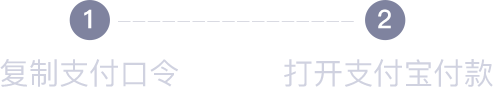
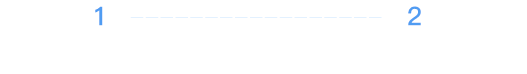
update purchase

Changed region(s): [[0.5781, 0.6757, 1.0, 1.0], [0.1217, 0.0, 0.8215, 0.4595], [0.0, 0.6757, 0.3651, 1.0]]

diff --git a/public/client/css/purchase_bk.css b/public/client/css/purchase_bk.css
@@ -19,17 +19,13 @@ html, body {
 }
 
 .full-height {
-    background-color: #639aeb;
+    background-color: #f3f3f3;
     margin-top: 18px;
 }
 
 .card {
 	font-size: 16px;
 	color: white;
-}
-
-.cardBody {
-	background-color: #639aeb;
 }
 
 .img_flow {
@@ -43,8 +39,7 @@ html, body {
 
 .information-table {
 	margin-top:20px;
-	margin-bottom:30px;
-	padding-top:10px;
+	padding-top:20px;
 	background: white;
 	border-radius: 10px;
 	display: block;
@@ -76,17 +71,15 @@ html, body {
 }
 
 .label-title {
-	color: #333;
-	font-size: 17px;
+	color: #323232;
+	font-size: 16px;
 	padding-left: 0;
-	padding-bottom: 15px;
-	font-weight: 600;
+	padding-bottom: 10px;
 }
 
 .point {
-	color: #f45f22;
-	font-size: 17px;
-	padding-left: 10px;
+	color: #ff3944;
+	font-size: 16px;
 }
 
 .text-right {
@@ -94,16 +87,15 @@ html, body {
 }
 
 .button-copy {
-	display: inline-block;
-	width:70px;
-    height: 20px;
-    border-radius: 20px;
-    border: 1px solid #639aeb;
-    cursor:pointer;
-    margin: 0 0 10px 0; 
-    color: #639aeb;
-    text-align: center;
-    font-size: 11px;
+	color: white;
+	font-size: 18px;
+	padding: 7px 5px 10px 5px;
+	border-radius: 20px;
+	background-image: linear-gradient(to right, #ecc993, #dca464);
+	margin: 0 auto 0 auto;
+	font-weight: 700;
+	cursor: pointer;
+	text-align: center;
 }
 
 .button-status {
@@ -206,12 +198,12 @@ html, body {
 }
 
 .button-submit {
-	color: #fff;
+	color: white;
 	font-size: 18px;
 	padding: 7px 5px 10px 5px;
-	border-radius: 20px;
-	/*margin: 20px 10px;*/
-	background: #f8a647;
+	border-radius: 6px;
+	margin: 20px 10px;
+	background: #639aeb;
 	text-align: center;
 	cursor: pointer;
 }
@@ -325,44 +317,42 @@ html, body {
     position: relative;
     padding-right: 15px;
 	padding-left: 15px;
-	height: 210px;
-	margin-left: 5px;
+	height: 100px;
 }
 
 .radio{
     display:inline-block;
     width:100%;
-    height: 70px;
+    height: 0.7rem;
     border-radius: 6px;
-    border: 1px solid #d5d5d5;
+    border: 1px solid #d6d6d6;
     cursor:pointer;
     margin: 0 0 10px 0; 
-    color: #b8b8b8;
+    color: #d6d6d6;
     text-align: center;
-    font-size: 13px;
-    padding-top:8px;
+    font-size: 12px;
+    padding:5px;
 }
 
 .radio-title {
 	color: #7b7b7b;
 	font-size: 16px;
-	padding-top:5px;
 }
 
 .radio.selected{
-    border-color: #f8a647;
+    border-color: #fb8900;
     color: #fb8900;
 }
 
 .radio.selected .radio-title{
-    color: #f8a647;
+    color: #fb8900;
 }
 
-/*@media only screen and (max-width: 500px) {
+@media only screen and (max-width: 500px) {
 	.radio{
 		height: 55px;
 	}
-}*/
+}
 
 @media only screen and (max-width: 360px) {
 	.radio{
@@ -372,43 +362,8 @@ html, body {
 
 .copy-success {
 	background: #3dcc32;
-	color: #fff;
 }
 
 .copy-fail {
 	background: #999999;
-	color: #fff;
-}
-
-.how-to-pay {
-	font-size: 13px;
-	color: #999;
-	width: 355px;
-}
-
-.qq-info {
-	padding:5px;
-	display: inline-block;
-	text-align: center;
-	padding-top: 20px;
-	padding-bottom: 10px;
-	font-size: 17px;
-	color: #333;
-	font-weight: 500;
-}
-
-.qq-icon {
-
-	display: inline-block;
-	height: 20px;
-}
-
-.qq {
-	text-align: center;
-	margin: auto;
-  /*width: 50%;*/
-  /*border: 3px solid green;*/
-  padding: 10px;
-    overflow: auto;
-
 }

diff --git a/public/client/js/purchase.js b/public/client/js/purchase.js
@@ -5,14 +5,7 @@ $(document).ready(function () {
     getToken();
 
     $('.button-submit').click(function(){
-
-        var txt_name = $('#txt_name').val();
-        if(txt_name == ''){
-            $('.error').html('未输入姓名无法提交，请填写真实姓名');
-            $('.error').show();
-        } else {
-            purchase();
-        }
+        purchase();
     });
 
     var clipboard = new ClipboardJS('.cutBtn', {
@@ -22,11 +15,11 @@ $(document).ready(function () {
     });
 
     clipboard.on('success', function (e) {
-        $('.cutBtn').addClass('copy-success').html('复制成功 打开支付宝');
+        $('.cutBtn').addClass('copy-success').html('复制成功');
     });
 
     clipboard.on('error', function (e) {
-        $('.cutBtn').addClass('copy-success').html('复制成功 打开支付宝');
+        $('.cutBtn').addClass('copy-success').html('复制成功');
     });
 
 }); 
@@ -69,13 +62,13 @@ function getPackage() {
 
                     if(purchase_data.length == 0 && item.package_discount_price > 0){
                         html += '<div class="promotion"><img src="/client/images/membership/promotion.png" /></div>';
-                        price = item.package_discount_price;
+                        price = Math.trunc(item.package_discount_price);
                     } else {
-                        price = item.package_price;
+                        price = Math.trunc(item.package_price);
                     }
 
                         html += '<div class="radio" data-value="'+ item.id +'" data-price="'+price +'">' +
-                                    '<div class="radio-title">'+ item.package_name +'</div><div>售价'+ price +'元</div>' +
+                                    '<div class="radio-title">'+ item.package_name +'</div><div>'+ price +' Q币 兑换</div>' +
                                 '</div>' +
                             '</div>';
                     
@@ -87,10 +80,10 @@ function getPackage() {
                     $(this).parent().parent().find('.radio').removeClass('selected');
                     $(this).addClass('selected');
                     var val = $(this).attr('data-value');
-                    var price = $(this).attr('data-price');
+                    var price = Math.trunc($(this).attr('data-price'));
                     //alert(val);
                     $('#radio-value').val(val);
-                    $('.point').html('¥'+ price +'元');
+                    $('.point').html(price +' Q币');
                 });
             }
         }
@@ -99,7 +92,7 @@ function getPackage() {
 
 function purchase(){
     var id = $('#hidUserId').val();
-    var txt_name = $('#txt_name').val();
+    var txt_name = null; //$('#txt_name').val();
     var packageid = $('#radio-value').val();
 
     if(packageid <= 0){

diff --git a/public/client/js/round.js b/public/client/js/round.js
@@ -111,10 +111,12 @@ function populateData(records, token) {
                     var str_status = "开通失败";
                     var str_class = "fail";
                 }
+
+                var bprice = Math.trunc((item.buy_price != null) ? item.buy_price : 0);
                 
                 html += '<div class="row">' +
                             '<div class="col-xs-8 column-1">' +
-                                '<div class="item">购买' + item.package_name + '幸运转盘</div>' +
+                                '<div class="item">Q币购买' + item.package_name + '幸运转盘</div>' +
                                 '<div class="date">购买时间：' + str_date + '</div>';
                                 if(str_class == 'fail' && item.reject_notes != ''){
                                     html += '<div class="reason">原因：' + item.reject_notes + '</div>';
@@ -125,7 +127,7 @@ function populateData(records, token) {
                                     '<div class="status">' +
                                         '<span class="' + str_class + '">'+ str_status +'</span>' +
                                     '</div>' +
-                                    '<div class="additional">'+ item.buy_price +'元</div>';
+                                    '<div class="additional">'+ bprice +' Q币</div>';
                                     if(str_class == 'fail'){
                                         html += '<a href="/purchase"><div class="btn-purchase">再次购买</div></a>';
                                     }

diff --git a/resources/views/staradmin/client/purchase_bk.blade.php b/resources/views/staradmin/client/purchase_bk.blade.php
@@ -1,6 +1,6 @@
 @extends('layouts.default')
 
-@section('title', 'Q币购买')
+@section('title', '付款页面')
 
 @section('left-menu')
     <a href="/profile" class="back">
@@ -30,6 +30,7 @@
 				<div class="row">
 					<div class="col-xs-12">
 					  	<div class="label-title">选择场次</div>
+					  	<h4 style="font-size: 0;">优惠券代码 <span id="cut" class="copyvoucher">i8I2yX408f</span></h4>
 					</div>
 
 					<form method="post" action="">
@@ -38,41 +39,46 @@
 					  
 					</form>
 
-					<div class="col-xs-12">
-						<div class="label-title">需支付<span class="point">0 Q币</span>
-						</div>
+					<div class="col-xs-6">
+						<div class="label-title">支付金额</div>
+					</div>
+					<div class="col-xs-6 text-right">
+						<div class="point">¥0.00元</div>
 					</div>
 
 					<div class="col-xs-12">
-						<div class="how-to-pay">
-							支付方式：<br>
-							到淘宝搜索“1个Q币”给下方Q号充值26个Q币。<br>
-							充值完成后点击“充值完成”。<br>
-						</div>
+					  	<div class="button-copy cutBtn">复制支付口令</div>
 					</div>
-
-					<div class="col-xs-12 qq">
-						<img class="qq-icon" src="{{ asset('/client/images/membership/qq.png') }}"  />
-						<div class="qq-info">
-							QQ号码: <span id="cut">{{env('qqnumber', '235883623')}}</span>
-						</div>
-						<div class="button-copy cutBtn">复制号码</div>
-					</div>
-
-					<div class="col-xs-12">				
-						<div class="button-submit">充值完成</div>
-						<div class="error"></div>
-					</div>
-
 				</div>
-
 			</div>
 			<!-- end member details -->
 
 
-		  	
+		  	<div class="listing-table">
+				<div class="col-xs-4">
+					重要提示：
+				</div>
+				<div class="col-xs-8">
+					付款成功后，请提交付款信息，填写姓名，否则后台无法确认。
+				</div>
+				<div style="clear: both;"></div>
+				<div class="input-wrapper">
+					<input type="text" value="" id="txt_name" name="txt_name" placeholder="输入姓名" />
+				</div>
+				<div class="button-submit">确认提交</div>
+				<div class="error">未输入姓名无法提交，请填写真实姓名</div>
+
+			</div>
 		</div>
 		
+		<div class="top-background">
+			<img src="{{ asset('/client/images/membership/bg-purchase.png') }}" />
+		</div>
+		<div class="bottom-background"></div>
+
+		<!-- member listing -->
+		
+		<!-- end member listing -->
 	</div>
 </div>
 

diff --git a/resources/views/staradmin/client/game.blade.php b/resources/views/staradmin/client/game.blade.php
@@ -692,7 +692,7 @@
 								<div class="modal-invite-content">
 									<h1 class="modal-invite-title">您有以下选择</h1>
 									<ol class="vegan-list">
-										<li>购买次数，首次购买仅需<span class="_1st_basic_topup">5.8元/次</span>，之后购买9.9元/次，每天限购5次。</li>
+										<li>Q币购买次数，首次购买仅需<span class="_1st_basic_topup">6Q币/次</span>，之后购买10Q币/次，每天限购5次。</li>
 										<li>邀请好友加入，邀请1个获得{{env('sharetofriend_youwillget', '1')}}次机会</li>
 									</ol>
 								</div>
